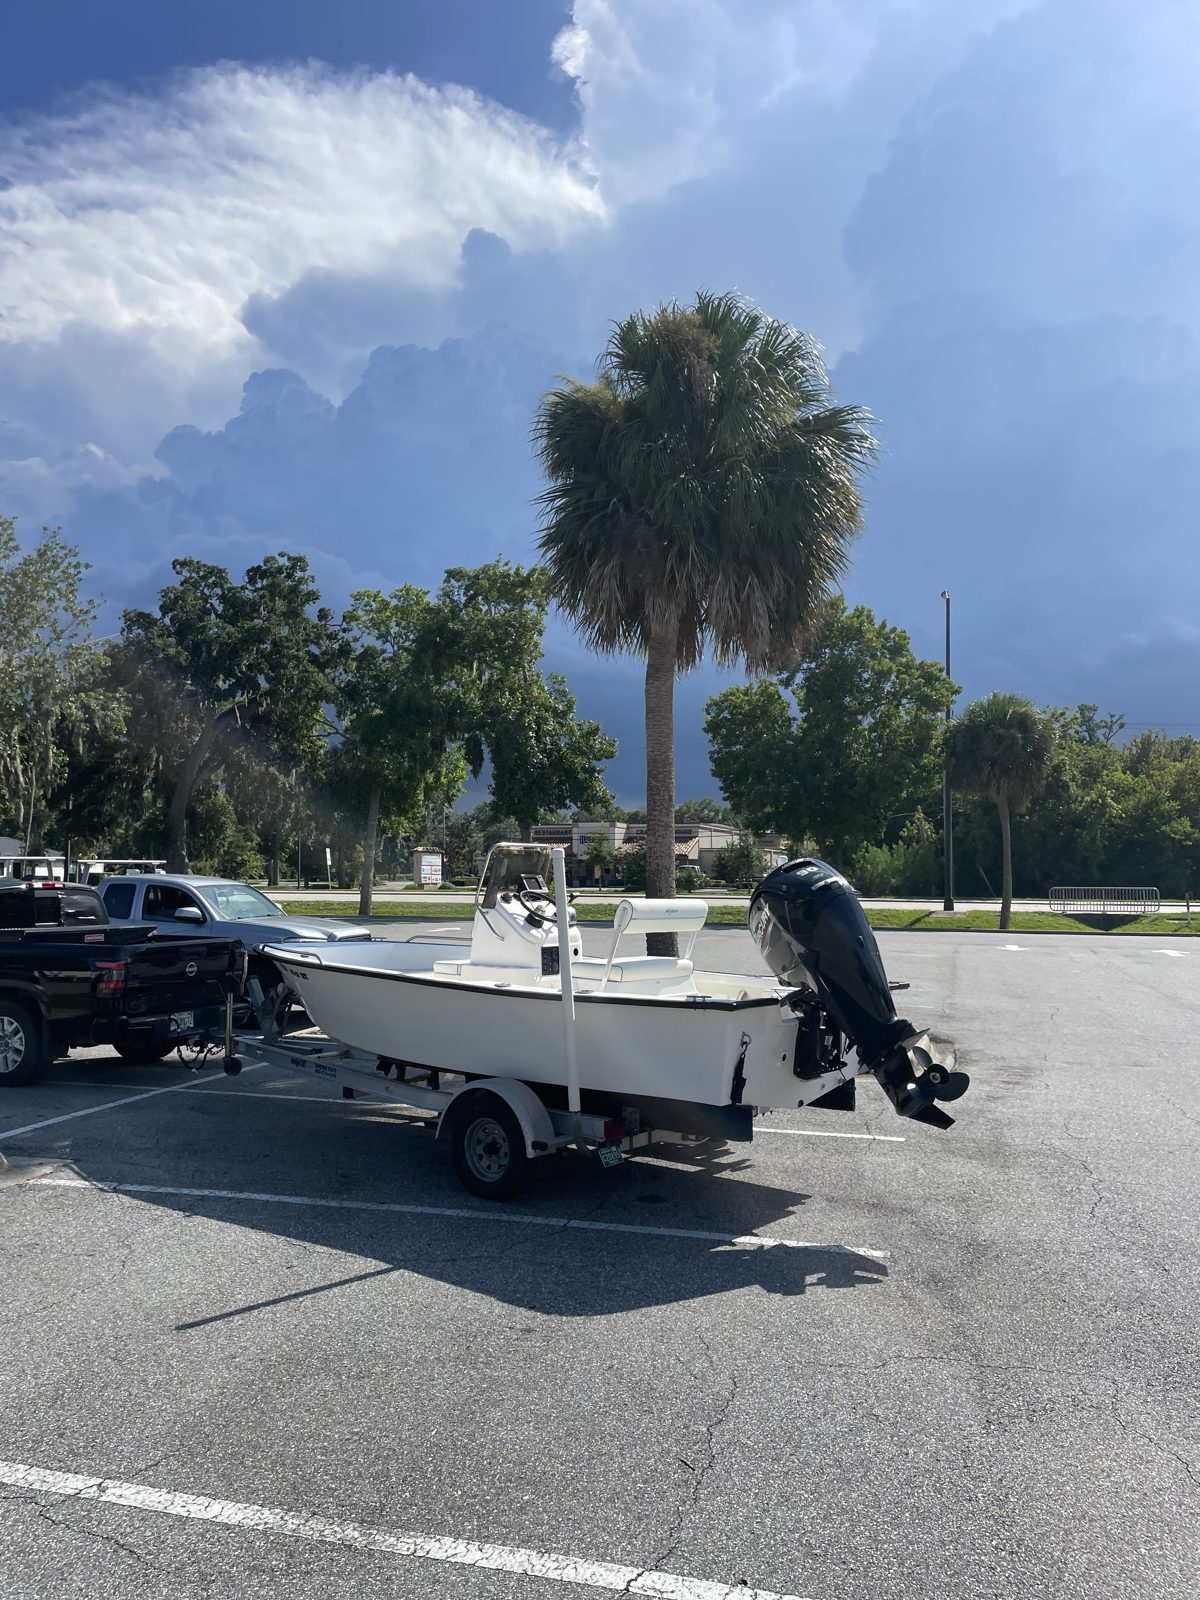
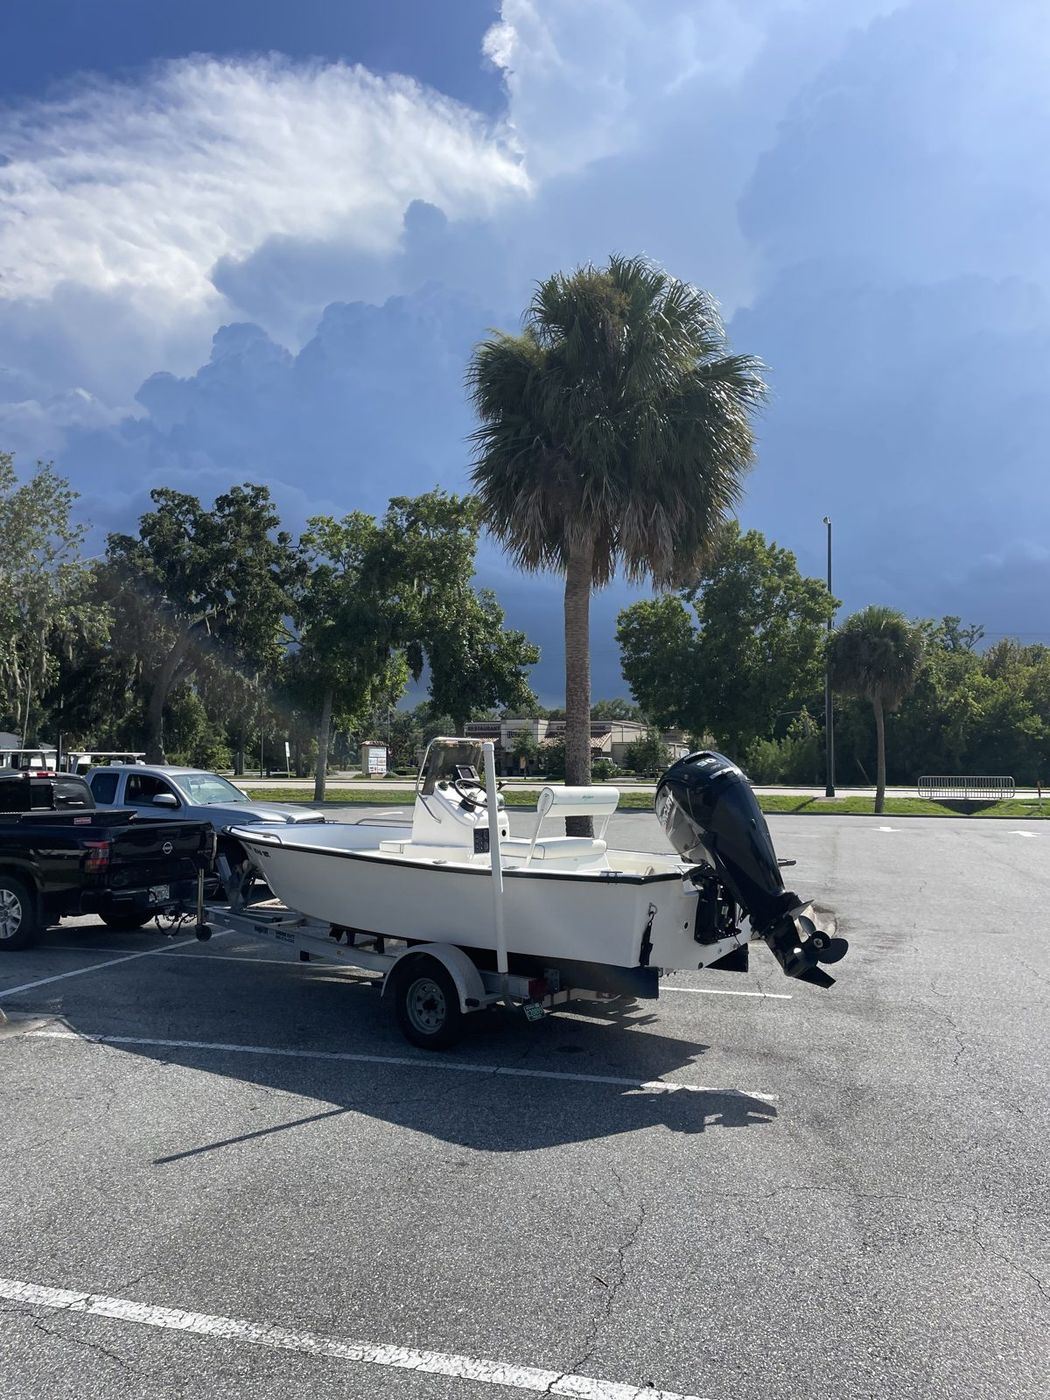
Cut page weight roughly in half for phone visitors
Most visitors are on phones, often on cellular. Downscales every image
the site references to the largest size any screen actually displays
(1400px long edge for boat gallery photos, less for split-panel shots)
and recompresses as progressive JPEG q80. The header logo, loaded on
every view, drops from 386KB to 94KB at 320px tall with transparency
intact.

Per-tab transfer at phone size: repair 1079->599KB, boats 1489->721KB,
restoration 1152->681KB, contact 534->241KB. Adds ?v=3 to all reworked
image URLs so cached copies refresh; layout verified unchanged at phone
and desktop widths.

diff --git a/app.js b/app.js
@@ -11,7 +11,7 @@ const CONFIG = {
   /* --- Business ---------------------------------------------------------- */
   phone: "(386) 227-6883",          // Your call/text number. Shown on the site + QR signs.
   businessName: "Stardock Incorporated",
-  logo: "images/stardock-logo.png", // Logo file in the images/ folder (transparent PNG works best). Shown on the printable sign. Falls back to the business name in text if the file isn't found.
+  logo: "images/stardock-logo.png?v=3", // Logo file in the images/ folder (transparent PNG works best). Shown on the printable sign. Falls back to the business name in text if the file isn't found.
   techName: "",                     // Name of your certified outboard technician (shown on the repair tab).
   websiteUrl: "https://stardockmarine.com", // Your live web address (used to build each boat's shareable link + QR).
 
@@ -56,7 +56,7 @@ const CONFIG = {
         "Lowrance GPS/fishfinder · new sound system",
         "Aluminum trailer included — turnkey",
       ],
-      photos: ["images/keylargo-water-1.jpg", "images/keylargo-water-2.jpg", "images/keylargo-water-3.jpg", "images/keylargo-4.jpg", "images/keylargo-hull-warranty.jpg"],
+      photos: ["images/keylargo-water-1.jpg?v=3", "images/keylargo-water-2.jpg?v=3", "images/keylargo-water-3.jpg?v=3", "images/keylargo-4.jpg?v=3", "images/keylargo-hull-warranty.jpg?v=3"],
       blurb:  "Well-kept 17-foot center console with a brand-new 90 HP Mercury and a fully transferable 7-year warranty. Turn-key and ready to fish.",
       desc:   "A well-kept 17-foot Key Largo center console with a brand-new, just-installed 90 HP Mercury Command Thrust outboard backed by a fully transferable 7-year warranty. The boat has been professionally rewired and updated and is equipped with a Lowrance GPS/fishfinder, livewell, and a new sound system.\n\nThe console also has a convenient built-in wireless phone charger.\n\nThe boat comes on a matching aluminum trailer and is truly turnkey — there are no issues, deferred maintenance, or projects to tackle. Just hitch it up, launch it, and go fishing.\n\n$22,500 or OBO\nFinancing available.",
     },
@@ -76,7 +76,7 @@ const CONFIG = {
         "Legendary “unsinkable” McKee hull",
         "Galvanized trailer included",
       ],
-      photos: ["images/mckee-5.jpg", "images/mckee-3.jpg", "images/mckee-4.jpg", "images/mckee-brochure.jpg"],
+      photos: ["images/mckee-5.jpg?v=3", "images/mckee-3.jpg?v=3", "images/mckee-4.jpg?v=3", "images/mckee-brochure.jpg?v=3"],
       blurb:  "A classic 1977 McKee Craft — the legendary “unsinkable” skiff, lovingly restored. 1997 Mariner 50 BigFoot four-stroke, hydraulic steering, Bose sound & GPS.",
       desc:   "A true Florida classic. From the 1960s on, McKee Craft earned its nickname — “The Unsinkables” — with a double-hull, full-foam-flotation design that keeps the boat afloat even when swamped, built over a cathedral hull that runs dry and stable in a chop. Decades later they're still prized as tough, safe, seaworthy boats that punch well above their size.\n\nThis 1977 14-footer has been lovingly restored — original, beautifully finished woodwork blended with modern upgrades throughout. Power is a 1997 50 HP Mariner FourStroke BigFoot outboard, with hydraulic steering, a new Bose sound system, GPS and fishfinder, and professionally rewired electrics. It's been fully serviced and inspected by a certified outboard technician, with strong compression on all four cylinders. Light, unsinkable by design, and easy to launch — a one-of-a-kind first boat, backwater skiff or weekend fishing rig. Comes on a galvanized trailer.",
     },
@@ -107,10 +107,10 @@ const CONFIG = {
      small tag on the photo). Drop the files in the images folder.
      Leave it empty ([]) and the tab shows a friendly "coming soon" note. */
   restorationPhotos: [
-    { src: "images/restore-before-1-crop.jpg", label: "Before" },
-    { src: "images/restore-before-2.jpg", label: "Before" },
-    { src: "images/restore-after-2.jpg?v=2",  label: "After"  },
-    { src: "images/restore-after.jpg?v=2",    label: "After"  },
+    { src: "images/restore-before-1-crop.jpg?v=3", label: "Before" },
+    { src: "images/restore-before-2.jpg?v=3", label: "Before" },
+    { src: "images/restore-after-2.jpg?v=3",  label: "After"  },
+    { src: "images/restore-after.jpg?v=3",    label: "After"  },
   ],
 
   /* Certification badge shown in the credentials box on the Restoration tab.
@@ -912,7 +912,7 @@ function viewRepair() {
           ${phoneOut(true)}
         </div>
         <figure class="hero-media" style="margin:0;position:relative;overflow:hidden">
-          <img src="images/repair-mobile-boat.jpg" alt="Mobile marine service — we come to your dock, driveway or ramp" style="position:absolute;inset:0;width:100%;height:100%;object-fit:cover;object-position:center 42%;background:var(--color-neutral-200)">
+          <img src="images/repair-mobile-boat.jpg?v=3" alt="Mobile marine service — we come to your dock, driveway or ramp" style="position:absolute;inset:0;width:100%;height:100%;object-fit:cover;object-position:center 42%;background:var(--color-neutral-200)">
           <figcaption class="mono" style="position:absolute;left:0;right:0;bottom:0;background:color-mix(in srgb,var(--color-accent-900) 82%,transparent);color:var(--color-bg);font-size:12px;letter-spacing:.02em;padding:7px 12px">We bring the shop to you — dock, driveway or ramp.</figcaption>
         </figure>
       </section>
@@ -921,7 +921,7 @@ function viewRepair() {
       <section style="padding:24px 18px 0;max-width:980px;margin-inline:auto">
         <div class="split2" style="border:1px solid var(--color-divider);background:var(--color-bg)">
           <figure style="margin:0;position:relative;overflow:hidden;min-height:220px">
-            <img src="images/repair-fiberglass-damage.jpg" alt="A ding in a boat hull — an example of the damage we come out to repair" loading="lazy" onerror="var f=this.closest('figure');if(f)f.remove()" style="position:absolute;inset:0;width:100%;height:100%;object-fit:cover;object-position:center 34%;background:var(--color-neutral-200)">
+            <img src="images/repair-fiberglass-damage.jpg?v=3" alt="A ding in a boat hull — an example of the damage we come out to repair" loading="lazy" onerror="var f=this.closest('figure');if(f)f.remove()" style="position:absolute;inset:0;width:100%;height:100%;object-fit:cover;object-position:center 34%;background:var(--color-neutral-200)">
           </figure>
           <div style="padding:20px 18px 22px">
             <div class="mono" style="font-size:11px;letter-spacing:.14em;text-transform:uppercase;color:var(--color-accent-700)">An example of what we come out to fix</div>

diff --git a/index.html b/index.html
@@ -115,7 +115,7 @@
       <header class="site">
         <div style="display:flex;align-items:flex-start;justify-content:space-between;gap:12px">
           <a href="#/repair" style="text-decoration:none;display:flex;align-items:center;gap:10px;min-width:0;flex:1 1 auto">
-            <img src="images/stardock-logo.png" alt="Stardock" style="height:clamp(40px,12vw,54px);width:auto;flex:none">
+            <img src="images/stardock-logo.png?v=3" alt="Stardock" style="height:clamp(40px,12vw,54px);width:auto;flex:none">
             <span style="text-align:left;min-width:0">
               <span class="mono" style="display:block;font-weight:600;font-size:clamp(17px,5.2vw,23px);line-height:.95;letter-spacing:-.01em;color:var(--color-text)">STARDOCK<br>INCORPORATED</span>
               <span class="text-muted" style="display:block;font-size:11px;letter-spacing:.04em;margin-top:5px;text-transform:uppercase">Mobile Boat Repair · Sales · Restoration · Florida</span>
